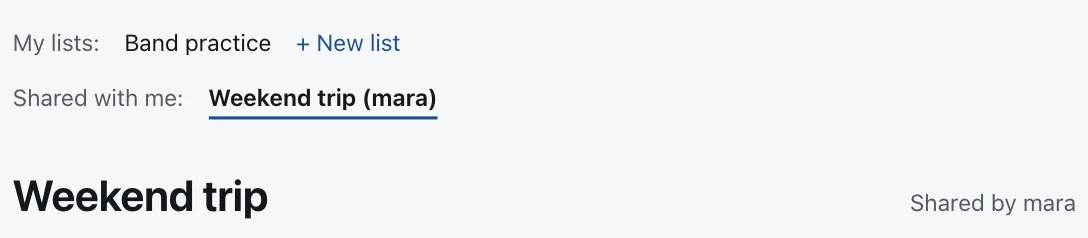
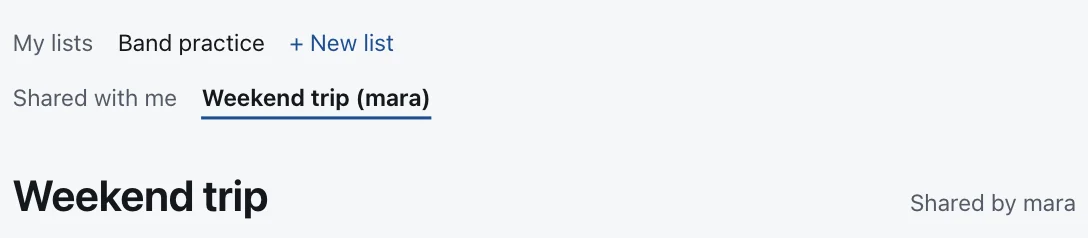
Take the landing screenshots again and mark the accessibility plan done
The list menu has no colons now, and a row in the manual order keeps an empty
slot for a missing Move button: the list, order and share-member pictures
changed. Their sizes are the same.

Changed region(s): [[0.0938, 0.1471, 0.375, 0.2353], [0.1875, 0.3529, 0.4062, 0.4706]]

diff --git a/docs/plans/accessibility-pass.md b/docs/plans/accessibility-pass.md
@@ -1,6 +1,6 @@
 # Plan: an accessibility pass on the app pages
 
-Status: **approved** (2026-10-11, by the orchestrator for the person), not started.
+Status: **done** (2026-10-11)
 
 Builds on: **app-redesign** (#32: `base.html`, `app.css`, `_field.html`, the row grid, the 44px
 touch rule, and its "Decided by the person"), **accounts** (`accounts/forms.py`), **subtasks**,
@@ -90,7 +90,8 @@ the title, and CUJ tests read `ul.todos > li .title` text.
 Add to the `@media (pointer: coarse)` block in `app.css`:
 
 - `ul.todos details summary`, `details.clear-completed summary`, `details.leave summary` (new,
-  decision 9): `display: flex; align-items: center; min-height: var(--control-height-touch)`.
+  decision 9): `min-height` and `line-height: var(--control-height-touch)`. (Built so instead
+  of `display: flex`, which removes the open/closed triangle of a `<summary>` in Chromium.)
 - `nav.filter a`: `min-height: var(--control-height-touch)`; `nav.filter` gap `var(--space-2)`.
 - `nav.lists a` and `.list-actions a`: `display: inline-flex; align-items: center; min-height:
   var(--control-height-touch)`. `nav.lists .menu` gets only `row-gap: var(--space-2)` (its 16px
@@ -344,3 +345,22 @@ The plan review (2026-10-11) said APPROVE WITH CHANGES. What changed:
   `autofocus`, and the `Error: ` title is the reliable part.
 - New last step: `make landing-shots`, and commit changed pictures (orchestrator's choice).
 - Left for the person: "Leave asks first" is a behaviour change to review.
+
+## Built (2026-10-11)
+
+What turned out different from the plan above:
+
+- The summaries under a finger use `line-height` (see decision 3), so the triangle stays.
+- Line numbers in the table of tests that must change had moved (safe-toggles added tests).
+  Besides the listed ones, three more test lines changed, for the same decisions:
+  `KeepThePlaceTests` in `test_journeys.py` (`name="Done"`/`"Delete", exact=True` became
+  `"Done: Task 30"`/`"Delete: Task 30"`, decision 1), `ColorSchemeTests` (its
+  `.visually-hidden` locator became `.priority-3 .visually-hidden`, because the row now has more
+  hidden text, decision 1), and `todos/tests/cuj/test_auth_pages.py`
+  `test_bad_password_shows_the_error_below_the_field` (the description starts with "Type the
+  same password again", decision 8).
+- `test_password_help_names_the_real_minimum` and `test_step_done_keeps_the_fragment` passed
+  before the code too: Django's own help text already names 8, and step Done/Delete already kept
+  the fragment. They guard against later changes.
+- `make landing-shots`: the pictures `list`, `order` and `share-member` changed (menu without
+  colons, the Move slot); their sizes did not.
